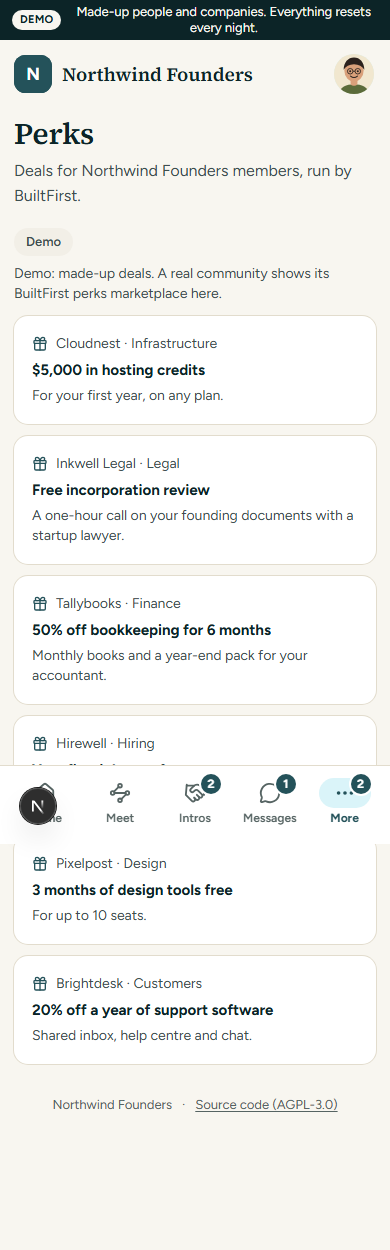
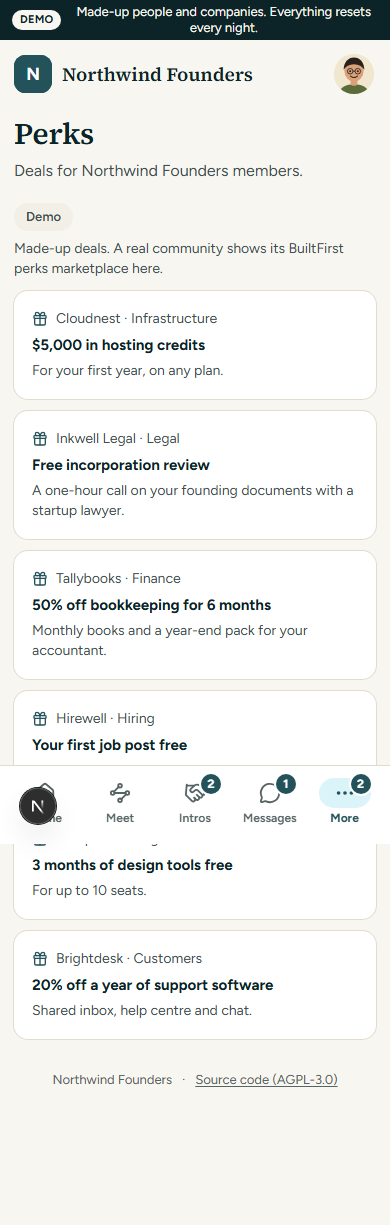
Demo jobs and perks: spec, notes, roadmap line, changelog card; one 'Demo' label on the perks note

diff --git a/src/platform/demo/perks.ts b/src/platform/demo/perks.ts
@@ -3,7 +3,7 @@
 
 export type DemoPerk = { company: string; offer: string; detail: string; category: string };
 
-export const DEMO_PERKS_NOTE = "Demo: made-up deals. A real community shows its BuiltFirst perks marketplace here.";
+export const DEMO_PERKS_NOTE = "Made-up deals. A real community shows its BuiltFirst perks marketplace here.";
 
 export const DEMO_PERKS: readonly DemoPerk[] = [
   { company: "Cloudnest", offer: "$5,000 in hosting credits", detail: "For your first year, on any plan.", category: "Infrastructure" },

diff --git a/CLAUDE.md b/CLAUDE.md
@@ -20,7 +20,7 @@ Better Auth, Vitest, pnpm. Village is optional (network search and profile fill-
 ## How to run / test
 - Run: `cp .env.example .env`, `docker compose up -d --wait`, `pnpm install`, `pnpm dev`; set `SETUP_TOKEN`, open `/setup`.
 - Test: a database only the tests use in `TEST_DATABASE_URL` (the tests wipe it), then
-  `pnpm lint && pnpm typecheck && pnpm test && pnpm build`. Fake Village, Resend and chat servers; no keys needed.
+  `pnpm lint && pnpm typecheck && pnpm test && pnpm build`. Fake Village, Resend and chat servers, no keys.
 - Architecture tests only: `pnpm test src/test/architecture`.
 - Migrations: `pnpm db:generate` after a schema change; the app migrates on boot (`pnpm db:migrate` by hand).
 
@@ -36,7 +36,7 @@ Better Auth, Vitest, pnpm. Village is optional (network search and profile fill-
 - How features work today: `.ai/features/chat-perks/NOTES.md`, `.ai/features/fix-intros/NOTES.md`,
   `.ai/features/fix-small/NOTES.md`, `.ai/features/hosting-data-settings/NOTES.md`, `.ai/features/partner-report/NOTES.md`, `.ai/features/small-gaps/NOTES.md`,
   `.ai/features/today-weekly/NOTES.md`, `.ai/features/two-sided-intros/NOTES.md`, `.ai/features/your-data/NOTES.md`,
-  `.ai/features/admin-home/NOTES.md`, `.ai/features/admin-firstrun/NOTES.md`, `.ai/features/faces-logos/NOTES.md`.
+  `.ai/features/admin-home/NOTES.md`, `.ai/features/admin-firstrun/NOTES.md`, `.ai/features/faces-logos/NOTES.md`, `.ai/features/demo-jobs-perks/NOTES.md`.
 - No notes: `.do/`, `.github/`, `deploy/`, `docs/` (public guides), `drizzle/` (generated), `site/` (has its README), `public/` (demo pictures),
   `vercel.json` (the Vercel Cron Job running the timed jobs daily). Every deploy setup runs the job runner;
   `src/test/deploy-setups.test.ts` guards it.

diff --git a/.ai/roadmap.md b/.ai/roadmap.md
@@ -58,6 +58,7 @@ Each open item gets these yes/no checks; code adds the points (change a number t
 - Gaps neither product had (merge plan): Google/Microsoft sign-in and SSO, groups inside one community, CRM export, events, other languages.
 
 ## Done
+- [x] 2026-11-10 — The demo shows the job board and perks, with made-up jobs and deals — [spec](features/demo-jobs-perks/SPEC.md)
 - [x] 2026-11-10 — The merged look: serif headings, flat sheets, fund name only, one way to ask — [PR #26](https://github.com/VillageHQ/community/pull/26) · [spec](features/look-theme/SPEC.md)
 - [x] 2026-11-10 — Demo mode for sales: a made-up community, one-click demo sign-in, nightly reset — [PR #25](https://github.com/VillageHQ/community/pull/25) · [spec](features/demo-mode/SPEC.md)
 - [x] 2026-11-10 — Project notes: vision, personas, journeys, this roadmap and the parity map — [PR #24](https://github.com/VillageHQ/community/pull/24) · [spec](features/project-notes/SPEC.md)
@@ -278,3 +279,4 @@ reason, or the owner's later brief where it says so) · **open** = not on main y
 - **done** · Long intro history seed — (PR #25)
 - **done** · Demo login and banner — (PR #25)
 - **done** · Nightly reset — (PR #25)
+- **done** · Job board and perks in the demo — [spec](features/demo-jobs-perks/SPEC.md)

diff --git a/.ai/features/demo-jobs-perks/NOTES.md b/.ai/features/demo-jobs-perks/NOTES.md
@@ -1,0 +1,14 @@
+# How the demo's jobs and perks work
+
+- Made-up data: `src/platform/demo/jobs.ts` (the four sources and their jobs, example.com links) and
+  `src/platform/demo/perks.ts` (the deals and the demo note).
+- Seeding: `seedJobs` in `src/shell/demo-seed.ts` inserts each `job_source` (a real tool name, the example.com careers
+  link, last pulled an hour ago) and its `job_posting` rows; `seedSettings` turns the job board, perks and the public
+  board (`job_board_public`) on, and the feed and chat off. The reset re-runs the seed.
+- No outbound pull: `pullSource` and `pullDueSources` in `src/modules/job-board/service-pull.ts` return early in demo
+  mode. `pullSource` returns `{ ok: true, count: 0, note: DEMO_PULL_NOTE }`; `linkSource` and `pullSourceNow` show
+  the note. The outbound fetch guard (`src/platform/demo/outbound.ts`) stays as a second wall.
+- Perks: `src/app/(app)/perks/page.tsx` renders `DemoPerksList` (`src/modules/perks/components/demo-perks-list.tsx`) in
+  demo mode, before checking for a saved marketplace. The Today perks card still needs a saved marketplace, so it is
+  not shown in the demo.
+- Tests: `src/shell/demo.test.ts` (seed, reset, and the pull that never fetches).

diff --git a/.ai/features/demo-jobs-perks/SPEC.md b/.ai/features/demo-jobs-perks/SPEC.md
@@ -1,0 +1,26 @@
+---
+id: demo-jobs-perks
+status: building
+waits-on: []
+size: small
+---
+# Spec: the demo shows the job board and perks
+
+**Added:** 2026-11-10 (the owner's build plan; approved scope in `CHARTER.md`)
+
+## What & why
+Demo mode used to switch the job board and perks off, so a buyer never saw them. Now the demo shows both, with
+made-up content, and still sends nothing outside the server.
+
+## What it does now
+- The job board is on: four made-up founders (Tallyhealth, Ledgerline, Kilnworks, Stackwise) have a careers link on
+  example.com and 2–5 jobs each, seeded as if a pull found them. The public board and the website widget are on.
+- In demo mode no pull fetches: the hourly job does nothing; Pull now and a new link say it's a demo and keep the
+  jobs shown, with no problem saved.
+- Perks is on: `/perks` lists six made-up deals, labelled demo, and never frames BuiltFirst. The admin page says so.
+- The feed and Slack/Discord stay off. The nightly reset restores all of it.
+
+How it works: `NOTES.md`.
+
+## Open questions
+- A source a visitor links in the demo shows "0 open jobs. Not checked yet." until the nightly reset.

diff --git a/src/modules/job-board/AGENTS.md b/src/modules/job-board/AGENTS.md
@@ -15,7 +15,6 @@ Rules:
 
 - Only the board's name comes from a pasted link. The address fetched is always the tool's own feed host, so a link never makes the app fetch an address of the founder's choosing. `JOB_FEEDS_FAKE_ORIGIN` points every feed at a fake server; it is for tests and local proof, and is ignored when `NODE_ENV` is `production`.
 - A pull that works replaces the pulled jobs. A pull that fails keeps the last good jobs and saves its problem in plain words on the source. Jobs added by hand (`is_manual`) are never touched by a pull.
-- In demo mode no pull fetches: it returns `DEMO_PULL_NOTE` and keeps the seeded jobs (`src/platform/demo/jobs.ts`).
 - Each source is pulled at most once an hour by the job, and Pull now at most once a minute.
 - The member who linked a source pulls, hides, removes and adds by hand. An admin may pull and hide any source, never remove it or add to it.
 - One source per careers link (tool and board name, without case) in the whole community, checked under a lock, so no job shows twice. A founder links or adds jobs only for the company on their card; an admin may add any company.

diff --git a/src/modules/perks/AGENTS.md b/src/modules/perks/AGENTS.md
@@ -5,7 +5,6 @@ The community's BuiltFirst perks marketplace, framed inside the app. Toggleable,
 - `contract.ts`: paths, `parsePerksEmbed` and `readBuiltfirstUrl` (pure), the frame's sandbox and sources.
 - `service.ts`: read, save and remove the marketplace address (setting `perks_embed_url`), audit-logged.
 - `components/perks-form.tsx`: the admin form. `components/perks-frame.tsx`: the sandboxed iframe. `components/shared/perks-card.tsx`: the Today card.
-- `components/demo-perks-list.tsx`: in demo mode `/perks` lists the made-up deals in `src/platform/demo/perks.ts`, labelled demo, and never frames BuiltFirst.
 - Pages: `src/app/(app)/perks/page.tsx` and `src/app/(app)/admin/perks/page.tsx`.
 
 Rules:

diff --git a/.ai/changelog/2026-11-10-demo-jobs-perks.md b/.ai/changelog/2026-11-10-demo-jobs-perks.md
@@ -1,0 +1,5 @@
+---
+date: 2026-11-10
+kind: added
+---
+The demo shows the job board, with made-up jobs for four companies, and a made-up perks list; job pulls never reach out in the demo.
